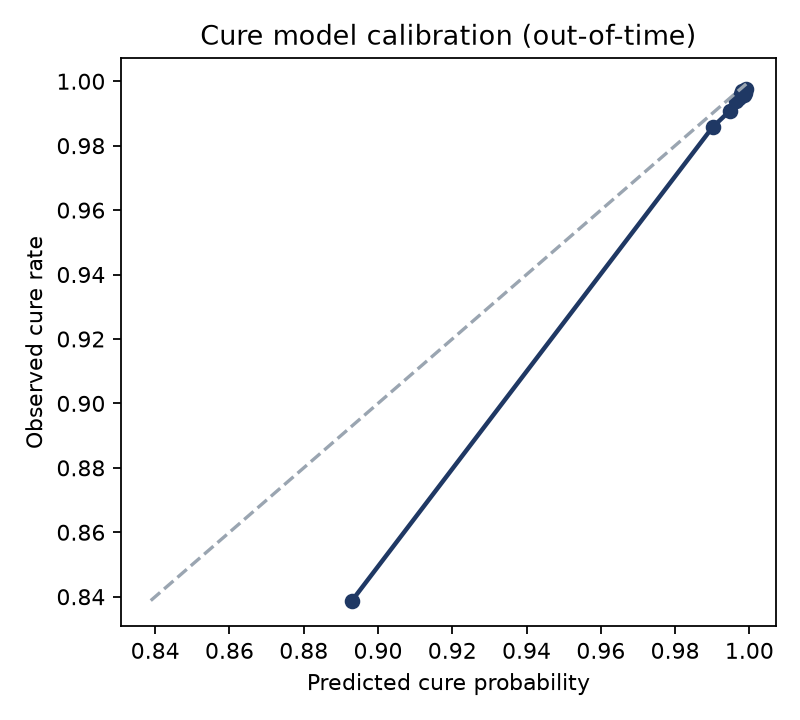
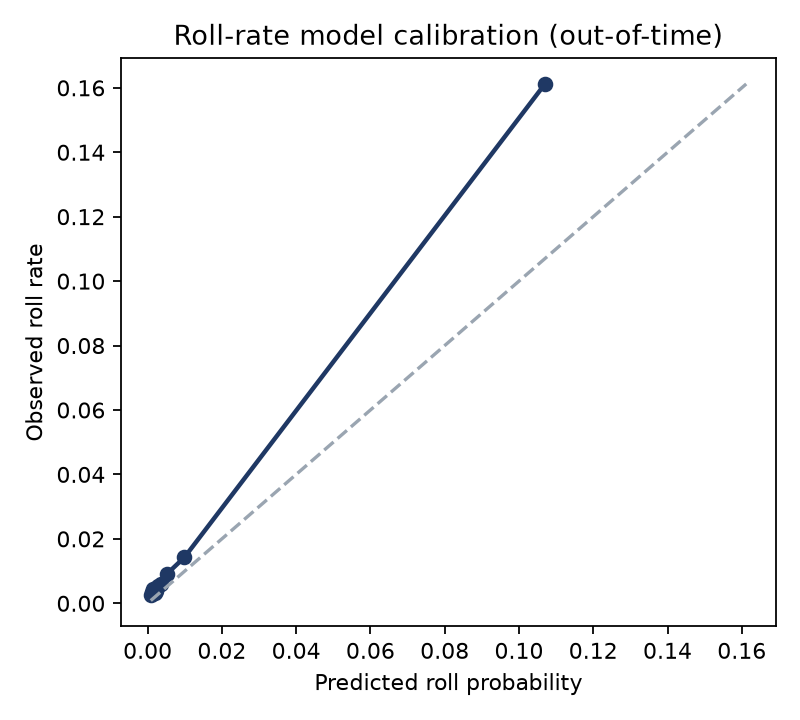
Name the collections model consistently as a roll-rate model; link live dashboard
- Dashboard, figures and docs now say roll-rate model / roll probability instead of cure model
- Calibration chart shown as predicted vs observed roll rate
- README links the Streamlit dashboard

diff --git a/app/streamlit_app.py b/app/streamlit_app.py
@@ -24,9 +24,9 @@ REPORTS = Path(os.environ.get("CRC_REPORTS_DIR", ROOT / "reports"))
 DATA = REPORTS / "app_data"
 NAVY, ORANGE, GREY = "#1F3864", "#E07B39", "#9AA5B1"
 STRATEGY_LABELS = {
-    "expected_uncured_amt": "Model x amount (expected uncured amount)",
+    "expected_uncured_amt": "Model x amount (expected rolling amount)",
     "largest_shortfall": "Largest overdue amount first",
-    "lowest_cure_prob": "Least likely to self-cure first",
+    "lowest_cure_prob": "Highest roll probability first",
     "random": "Random order",
 }
 STRATEGY_COLORS = {
@@ -59,17 +59,17 @@ sc, ch, col = R["scorecard"], R["challenger"], R["collections"]
 st.title("Credit Risk & Collections Analytics")
 st.caption(
     "Home Credit Default Risk data · dbt + DuckDB warehouse · WoE scorecard · LightGBM + SHAP · "
-    "out-of-time cure model · A/B test design. "
+    "out-of-time roll-rate model · A/B test design. "
     "[Code on GitHub](https://github.com/kiezu01/credit-risk-collections)"
 )
 
 c1, c2, c3, c4 = st.columns(4)
 c1.metric("Scorecard Gini (test)", f"{sc['test']['gini']:.3f}")
 c2.metric("LightGBM Gini (test)", f"{ch['test']['gini']:.3f}")
-c3.metric("Cure model AUC (out-of-time)", f"{col['oot']['auc']:.3f}")
+c3.metric("Roll-rate model AUC (out-of-time)", f"{col['oot']['auc']:.3f}")
 cap = col["uncured_amt_captured_at_30pct"]
 c4.metric(
-    "Uncured amount reached at 30% capacity",
+    "Rolling amount reached at 30% capacity",
     f"{cap['expected_uncured_amt']:.0%}",
     f"{(cap['expected_uncured_amt'] - cap['random']) * 100:+.0f} pp vs random",
 )
@@ -192,7 +192,7 @@ with tab_col:
     fig.add_vline(x=capacity, line_dash="dot", line_color=GREY)
     fig.update_layout(
         xaxis_title="Share of queue worked",
-        yaxis_title="Uncured amount reached",
+        yaxis_title="Share of rolling amount reached",
         xaxis_tickformat=".0%",
         yaxis_tickformat=".0%",
         legend=dict(orientation="h"),
@@ -204,23 +204,23 @@ with tab_col:
         cal = load("collections_calibration.csv")
         fig = go.Figure()
         fig.add_scatter(
-            x=cal["predicted"],
-            y=cal["observed"],
+            x=1 - cal["predicted"],
+            y=1 - cal["observed"],
             mode="lines+markers",
             line=dict(color=NAVY),
             name="Model",
         )
         lo, hi = (
-            cal[["predicted", "observed"]].min().min(),
-            cal[["predicted", "observed"]].max().max(),
+            1 - cal[["predicted", "observed"]].max().max(),
+            1 - cal[["predicted", "observed"]].min().min(),
         )
         fig.add_scatter(
             x=[lo, hi], y=[lo, hi], mode="lines", line=dict(dash="dash", color=GREY), name="Perfect"
         )
         fig.update_layout(
             title="Calibration (out-of-time)",
-            xaxis_title="Predicted cure probability",
-            yaxis_title="Observed cure rate",
+            xaxis_title="Predicted roll probability",
+            yaxis_title="Observed roll rate",
         )
         st.plotly_chart(fig, use_container_width=True)
     with right:
@@ -231,12 +231,12 @@ with tab_col:
             y="feature",
             orientation="h",
             color_discrete_sequence=[NAVY],
-            title="Cure model drivers (mean |SHAP|)",
+            title="Roll-rate model drivers (mean |SHAP|)",
         )
         st.plotly_chart(fig, use_container_width=True)
     st.caption(
         f"{col['events_total']:,} delinquency events · trained on {col['events_train']:,}, "
-        f"validated on the latest {col['events_oot']:,} · cure rate {col['cure_rate_oot']:.1%} "
+        f"validated on the latest {col['events_oot']:,} · roll rate {1 - col['cure_rate_oot']:.1%} "
         f"(validation) · PSI train vs. validation {col['psi_p_cure_train_vs_oot']:.3f}"
     )
 

diff --git a/src/credit_risk_collections/reporting.py b/src/credit_risk_collections/reporting.py
@@ -85,7 +85,7 @@ def capture_figure(curve: pd.DataFrame, labels: dict, path):
     ax.axvline(30, ls=":", color=GREY)
     ax.set(
         xlabel="Share of each day's queue that collectors can work (%)",
-        ylabel="Share of uncured overdue amount reached (%)",
+        ylabel="Share of rolling overdue amount reached (%)",
         title="Who to call first: out-of-time validation",
     )
     ax.legend(frameon=False, fontsize=8, loc="lower right")
@@ -104,16 +104,16 @@ def shap_figure(importance: pd.DataFrame, title: str, path, top: int = 12):
 
 def calibration_figure(cal: pd.DataFrame, path):
     fig, ax = plt.subplots(figsize=(5, 4.5))
-    ax.plot(cal["predicted"], cal["observed"], marker="o", color=NAVY, lw=2)
+    ax.plot(1 - cal["predicted"], 1 - cal["observed"], marker="o", color=NAVY, lw=2)
     lo, hi = (
-        min(cal["predicted"].min(), cal["observed"].min()),
-        max(cal["predicted"].max(), cal["observed"].max()),
+        1 - max(cal["predicted"].max(), cal["observed"].max()),
+        1 - min(cal["predicted"].min(), cal["observed"].min()),
     )
     ax.plot([lo, hi], [lo, hi], ls="--", color=GREY)
     ax.set(
-        xlabel="Predicted cure probability",
-        ylabel="Observed cure rate",
-        title="Cure model calibration (out-of-time)",
+        xlabel="Predicted roll probability",
+        ylabel="Observed roll rate",
+        title="Roll-rate model calibration (out-of-time)",
     )
     _save(fig, path)
 
@@ -134,7 +134,7 @@ def write_all(
     capture_figure(col.capture_curve, labels, paths.figures / "collections_capture_curve.png")
     shap_figure(
         col.shap_importance,
-        "Cure model: top drivers (SHAP)",
+        "Roll-rate model: top drivers (SHAP)",
         paths.figures / "collections_shap.png",
     )
     calibration_figure(col.calibration, paths.figures / "collections_calibration.png")

diff --git a/src/credit_risk_collections/collections_model.py b/src/credit_risk_collections/collections_model.py
@@ -1,8 +1,8 @@
 """Early-delinquency collections: who will pay without help, and who to call first.
 
-1. Cure model: probability that an overdue instalment is paid within the cure
-   window, trained on older events and validated on the most recent ones
-   (out-of-time), the way it would be used in production.
+1. Roll-rate model: probability that an overdue instalment rolls to DPD 30+
+   (is not paid within the cure window), trained on older events and validated
+   on the most recent ones (out-of-time), the way it would be used in production.
 2. Prioritisation: collectors can only work part of each day's new delinquencies.
    We compare queue-ordering strategies by how much of the money that is NOT
    self-cured lands in the worked share of the queue. This uses observed outcomes
@@ -48,8 +48,8 @@ FEATURES = [
 STRATEGIES = {
     "random": "Random order (no prioritisation)",
     "largest_shortfall": "Largest overdue amount first (common rule of thumb)",
-    "lowest_cure_prob": "Least likely to self-cure first (model)",
-    "expected_uncured_amt": "Highest expected uncured amount first (model x amount)",
+    "lowest_cure_prob": "Highest roll probability first (model)",
+    "expected_uncured_amt": "Highest expected rolling amount first (model x amount)",
 }
 CAPACITIES = [0.1, 0.2, 0.3, 0.4, 0.5, 0.6, 0.7, 0.8, 0.9, 1.0]
 

diff --git a/src/credit_risk_collections/cli.py b/src/credit_risk_collections/cli.py
@@ -45,7 +45,7 @@ def train() -> dict:
         ch = challenger.train(train_df, test_df, sc.features, scorecard.TARGET)
         print("      test", ch.metrics["test"], flush=True)
 
-        print("[3/4] Collections cure model + prioritisation ...", flush=True)
+        print("[3/4] Collections roll-rate model + prioritisation ...", flush=True)
         col = collections_model.run(con)
         print("      oot", col.metrics["oot"], flush=True)
 

diff --git a/docs/methodology.md b/docs/methodology.md
@@ -27,7 +27,7 @@ default rate, and two point-in-time checks on the collections table.
 * **Challenger**: LightGBM on the same features, explained with SHAP. The gap between the two
   shows how much power the transparent model gives up.
 
-### 2. Collections: cure model and prioritisation
+### 2. Collections: roll-rate model and prioritisation
 * **Event (collections entry)** = an instalment with less than 95% of the amount paid **5 days
   after its due date (DPD 5)**. About half of all late instalments are paid within 3 days, so a
   short grace period keeps the queue to accounts a collector would actually work.

diff --git a/README.md b/README.md
@@ -8,6 +8,9 @@ An end-to-end consumer-credit analytics project on the real
 warehouse, an industry-style application scorecard, an out-of-time collections model, and the
 A/B test that would prove it works in production.
 
+**[Live dashboard](https://credit-risk-collections-ngoyjwsjci4vcdtrqbqnzp.streamlit.app/)** ·
+[Methodology](docs/methodology.md)
+
 ## Key results
 
 ### 1. Application scorecard: who to lend to
